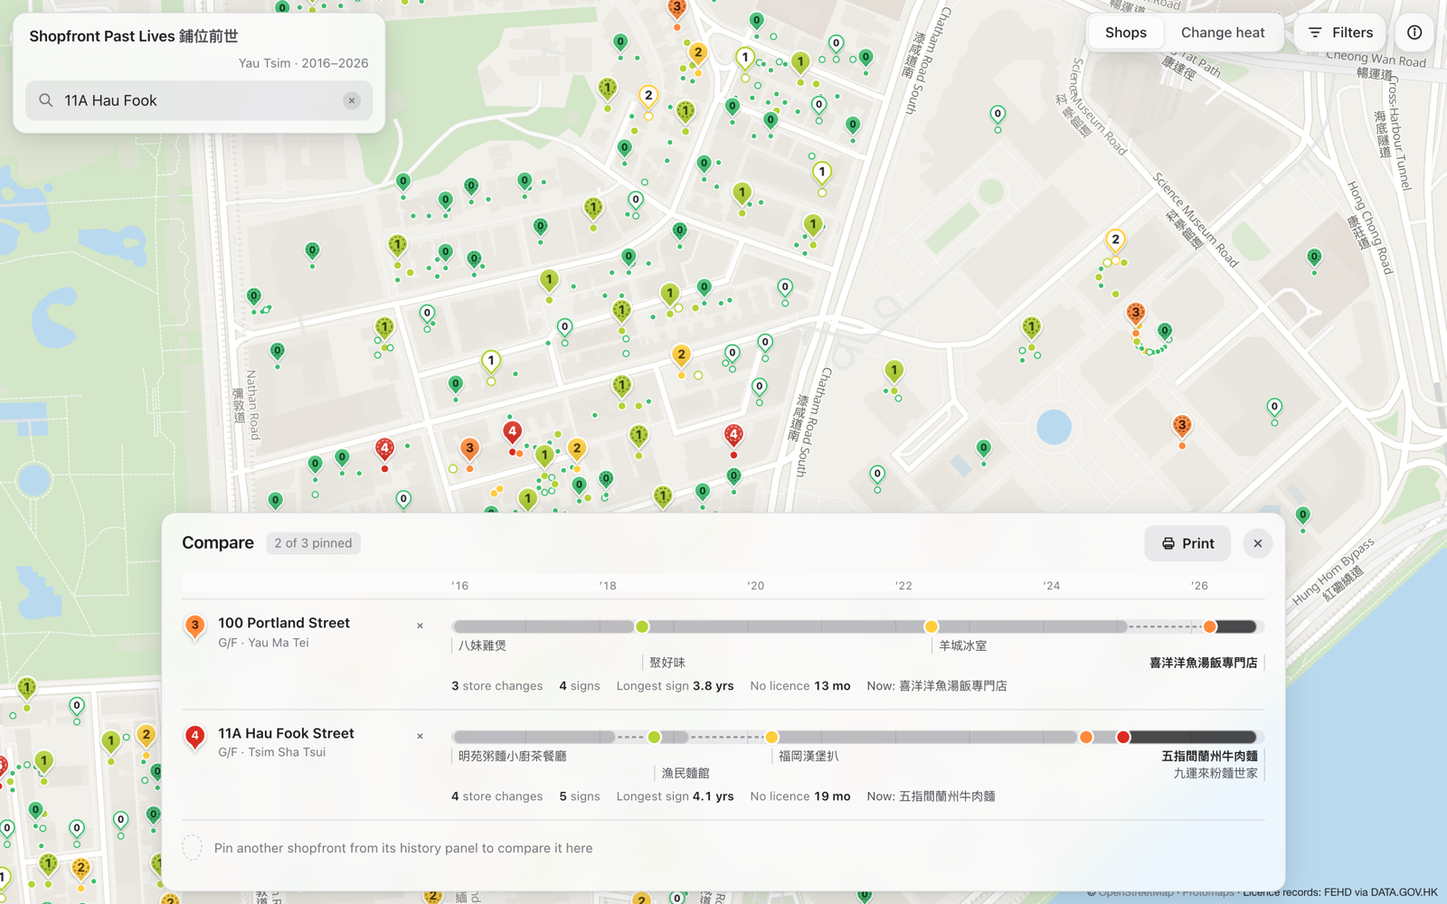
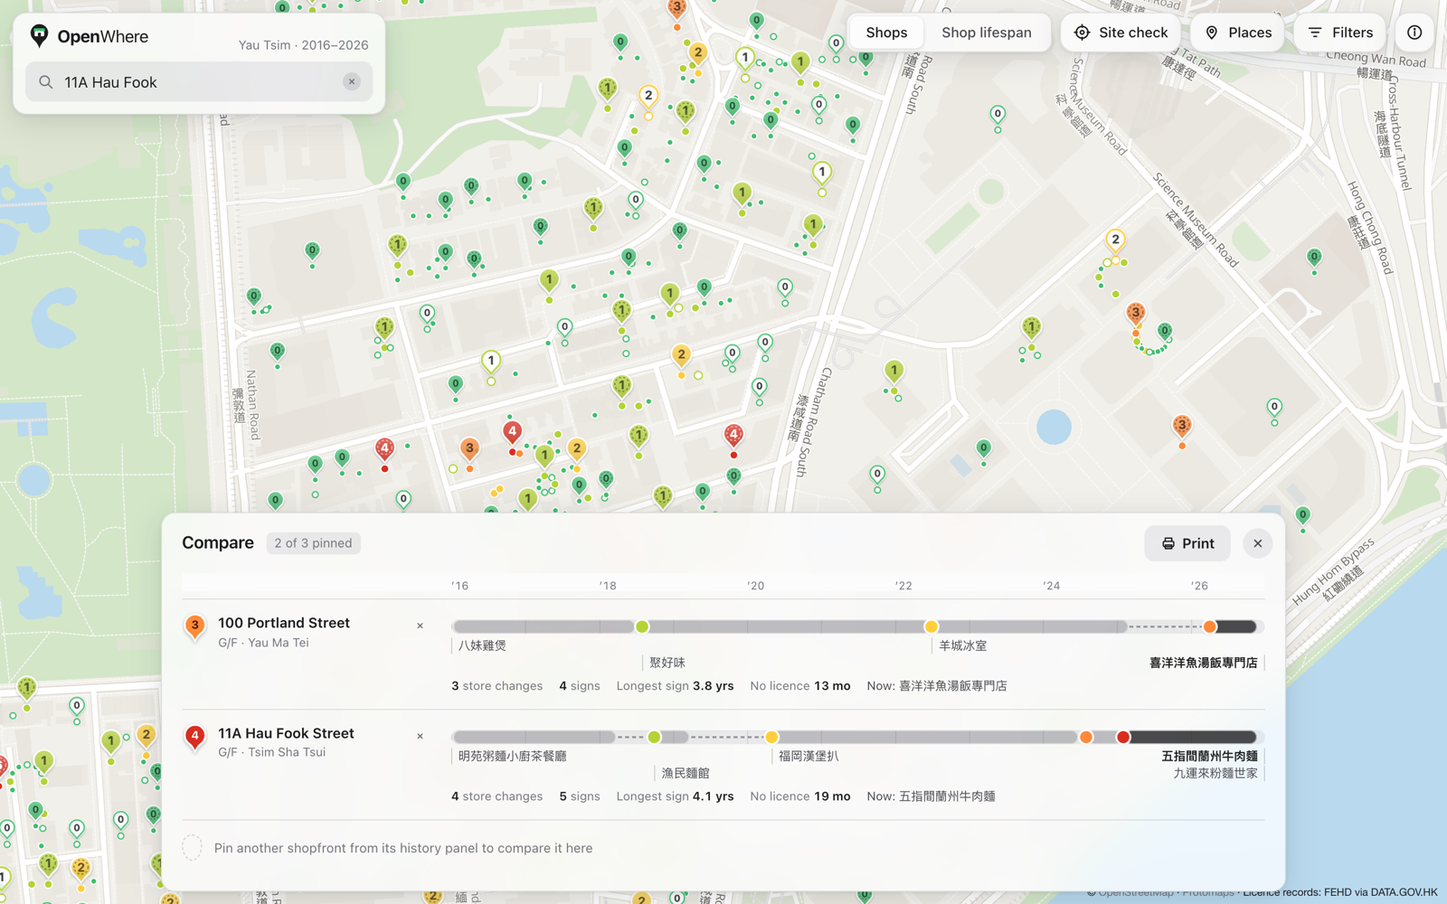
Rewrite README for OpenWhere and update product and design records
README now leads with the site question and documents site check, shop
lifespan (Kaplan-Meier, 75% of new shops last three years), cuisine
labels (87% coverage, how they were made) and places, with refreshed
screenshots. PRODUCT.md and DESIGN.md record the new features, the
logo, and that raw OpenRice data must stay out of the public repo.

diff --git a/README.md b/README.md
@@ -1,37 +1,45 @@
-# 鋪位前世 Shopfront Past Lives
+<img src="docs/brand/openwhere-logo.svg" alt="OpenWhere" width="260">
 
-A map of every shopfront in Yau Tsim (Tsim Sha Tsui, Jordan and Yau Ma Tei) that has held a restaurant licence since 2016, showing how many times each one changed hands.
+**Where should I open my restaurant?** OpenWhere puts ten years of Hong Kong's public restaurant licence records on one map of Yau Tsim (Tsim Sha Tsui, Jordan and Yau Ma Tei), so anyone choosing a site can see:
+- how often each shopfront has changed hands;
+- how long new shops last on each street;
+- which competitors of the same cuisine are already nearby;
+- what draws people to the area.
 
-Each shopfront on the map is a pin with one number: **store changes since 2016**. Green means the same sign has been listed the whole time; lime, yellow, orange and red mean one, two, three, and four or more different signs took over. Switch on **Change heat** and the streets themselves take on a continuous colour, so you can see at a glance where shops turn over often and where they stay.
+![OpenWhere: Yau Tsim with numbered pins](docs/desktop.png)
 
-![Map of Yau Tsim with numbered pins](docs/desktop.png)
-
-It is meant as a reference for anyone in the food business choosing a site, from a single noodle shop to a chain's site-selection team. It reports what the public licence lists show and nothing more. It does not predict whether a business will do well, and it never says why a shop left.
+It is a reference for anyone in the food business, from a single noodle shop to a chain's site-selection team. It reports what the records show. It doesn't predict whether a business will do well, and it never says why a shop left.
 
 ## What you can do with it
 
-- **Scan a district.** Pins show the count for every unit, and the tip marks the shopfront. Zoom out and they become coloured dots.
-- **See the trend.** *Change heat* (off by default) shades the streets by store changes per shop. It is smoothed over about 100 m and left blank wherever fewer than five shops are close by.
-- **Play ten years.** The year bar replays 2016 to 2026. Units whose count rises that year pulse once.
-- **Open a unit.** Click a pin, or search in English or Chinese (`砵蘭街100`, `Hau Fook`, a shop name). A side panel shows every sign at that address, the years each was listed, its licence type, and the licence records behind it.
-- **Filter.** Street level or all floors, licence type, outside seating, previously licensed with none listed now, and minimum number of changes.
-- **Compare and print.** Pin up to three units to see their signs side by side on one 2016–2026 axis, with each store change marked and the gaps with no licence dashed. Then print a sheet that cites its source for every row.
+- **Scan a district.** Every shopfront that has held a restaurant licence since 2016 is a pin with one number, **store changes since 2016**. The pin's tip marks the shop. Green means the same sign the whole time, rising through lime, yellow and orange to red at four or more changes.
+- **See how long shops last.** *Shop lifespan* colours the streets by the share of new shops still listed three years after they opened. Green means shops last and red means they don't. Paler colour means the estimate rests on fewer shops.
+- **Check a site.** *Site check* lets you click any spot, choose your cuisine and drag the radius (50 to 500 m). You get:
+  - same-cuisine competitors listed now, nearest first, highlighted on the map;
+  - all restaurants nearby;
+  - the local 3-year survival rate;
+  - units that held a licence before but have none now;
+  - the licence mix (general or light refreshment);
+  - the nearest MTR exit;
+  - the hotels, schools, malls, landmarks and stations in range.
+- **See what draws people.** *Places* shows MTR exits, stations, hotels, schools and universities, malls and markets, landmarks and venues, and hospitals. It can be switched off.
+- **Open a unit.** Click a pin, or search in English or Chinese (`砵蘭街100`, `Hau Fook`, a shop name). The panel shows every sign at that address with its years and licence type, the cuisine, the nearest MTR exit, and the licence records behind it.
+- **Play ten years.** The year bar replays 2016 to 2026, and units whose count rises that year pulse.
+- **Compare and print.** Pin up to three units to see their signs on one 2016–2026 axis, with each store change marked and the gaps with no licence dashed. Then print a sheet that cites its source for every row.
+
+![Site check: Japanese competitors within 200 m](docs/site.png)
+
+![Shop lifespan over Yau Tsim](docs/heat.png)
 
 ![History panel for G/F, 100 Portland Street](docs/panel.png)
-
-![Change heat over Tsim Sha Tsui](docs/heat.png)
 
 ![Two pinned shopfronts compared on one time axis](docs/compare.png)
 
 <img src="docs/phone-panel.png" alt="History panel on a phone" width="320">
 
-## How it was built
-
-This was built in one overnight session for a hackathon, and the commit history follows the build step by step. The data pipeline came first: download, spans, address resolution, link rules. Then came the choice of district, which went to Yau Tsim after the same counting was run over all 19 districts. After that: the map app, a round of fixes found by screenshotting the running app, a design review pass, and this README. `PRODUCT.md` records who the product is for and what it must never claim. `web/scripts/shoot.mjs` regenerates every screenshot here from the running app.
-
 ## Run it
 
-You need Node 18 or newer. All the data the app needs is already in the repository, and the app runs offline. It makes no network requests at all, not even for map tiles.
+You need Node 18 or newer. All the data the app needs is in the repository, and the app runs offline: it makes no network requests at all, not even for map tiles.
 
 ```bash
 cd web
@@ -41,29 +49,47 @@ npm run dev
 
 Open http://localhost:5173. For a static build, run `npm run build` and serve `web/dist` from any web server, or run `npm run preview`.
 
-## How a store change is counted
+## How the numbers are made
+
+### Store changes
 
 The source is the Food and Environmental Hygiene Department's restaurant licence list, which DATA.GOV.HK has archived daily since 2016 in English and Chinese. Each row gives a licence number, a sign, an address, a licence type and an expiry date. Nothing in it names an operator or a tenant, so the app never does either.
 
-Counting licence numbers would overstate how often shops change. A new restaurant usually gets a six-month provisional licence (numbers starting 38 or 39) and then a full licence (22 or 31), which is two numbers for one shop. So the pipeline links records into **sign histories**, using only these named rules:
+Counting licence numbers would overstate how often shops change: a new restaurant usually gets a six-month provisional licence (numbers starting 38 or 39), then a full licence (22 or 31). The pipeline links records into **sign histories** using only these named rules:
 
 | Records show | Treated as |
 | --- | --- |
-| Same licence number, sign text changes | One history, "sign changed under the same licence" |
+| Same licence number, sign text changes | One history |
 | Provisional number, then a full number within 9 months, signs match in either language | One history (inferred link) |
 | As above, but the first sign is a placeholder such as "No Record" | One history, marked unresolved |
-| As above, but the signs differ | Two histories; flagged "signs differ, may be linked" |
+| As above, but the signs differ | Two histories, flagged as possibly linked |
 | Different numbers, matching sign, gap under 12 months | One history (inferred link) |
 | Anything else | Separate histories |
 
-A **store change** is counted when a history with a different sign is listed after the previous one at that unit stopped being listed. A shop that opens beside another, without replacing it, is not a change. Addresses where two or more shops are listed at the same time for six months or more are marked as shared.
+A **store change** is a history with a different sign listed after the previous one at that unit stopped being listed. A shop that opens beside another is not a change. Hand-checked examples:
+- **G/F, 100 Portland Street:** 7 licence numbers, 4 sign histories, **3 store changes**.
+- **G/F, 11A Hau Fook Street:** 6 licence numbers, **4 store changes**.
 
-Two hand-checked examples come out as expected:
+### Shop lifespan
 
-- **G/F, 100 Portland Street:** 7 licence numbers, 4 sign histories, **3 store changes** (八妹雞煲 → 聚好味 → 羊城冰室 → 喜洋洋魚湯飯專門店).
-- **G/F, 11A Hau Fook Street:** 6 licence numbers, **4 store changes**. One provisional-then-full pair has different signs, so it stays unlinked and is flagged.
+Only shops that opened after January 2016 are used, so each one's start date is known: 907 at street level in Yau Tsim. Shops that are still listed today count as lasting *at least* as long as they have so far; they are not dropped. This is the Kaplan–Meier method, weighted by distance (σ ≈ 150 m) around every point.
 
-A licence that drops off the list for a month or two has usually just been renewed late. Of the licences that vanished from a monthly file and came back, 99.8% were back within six months, so gaps shorter than six months are never shown.
+- The colour is the share still listed three years after opening.
+- Across the district that share is **75%**, and half of new shops are still listed after about **7¼ years**.
+- Locally it runs from about 65% (red) to 90% (green).
+- Colour fades toward white as the number of nearby shops falls from 15 to 3. Below 3 shops nothing is drawn.
+
+### Cuisine
+
+The licence lists carry no cuisine, so it is guessed from each current shop's sign, in two passes:
+1. Keyword rules on the Chinese and English names labelled 857 shops.
+2. I read the remaining 730 names by hand (`data/cuisine_manual.json`).
+
+That gives 1,385 of the 1,587 shops listed now (87%) a cuisine. The other 202 stay "unclear from the name" rather than being guessed. A spot check of 45 rule labels found 41 right; the patterns behind the misses were then added. The app always says the cuisine was guessed from the name.
+
+### Places and MTR exits
+
+Places and MTR exits come from OpenStreetMap via the Overpass API. Tutoring centres tagged as schools are dropped. Distances are straight-line, not walking routes: the median shop is 149 m from its nearest MTR exit.
 
 ## Numbers for Yau Tsim
 
@@ -71,12 +97,17 @@ A licence that drops off the list for a month or two has usually just been renew
 | --- | --- |
 | Monthly files read, Jan 2016 to Nov 2026 (EN + TC) | 262, none set aside as damaged |
 | Licence numbers seen in the district | 5,119 |
-| Shopfronts on the map, all floors | 2,200 |
+| Shopfronts on the map, all floors | 2,200 (1,587 listed now) |
 | Street-level shopfronts placed on the map | 1,121 of 1,195 (94%) |
 | Street-level: no change / 1 / 2 / 3 / 4 or more | 832 / 212 / 56 / 15 / 6 |
-| Street-level units with a licence before but none listed now | 268 |
+| New street-level shops since 2016 still listed after 3 years | 75% |
+| Current shops with a cuisine label | 1,385 of 1,587 (87%) |
+| Places on the map | 160 MTR exits, 138 hotels, 161 schools, 95 malls and markets, 69 landmarks, 60 stations, 7 hospitals |
 
-Yau Tsim was picked from the 19 FEHD districts by running the same counting over all of them. It has the highest rate of store changes per street-level shop (0.34, against 0.09 to 0.28 elsewhere), the largest share of shops with at least one change (25%), and the most units with three or more changes (21, against 13 at most elsewhere). It also holds both hand-checked examples above.
+Yau Tsim was picked from the 19 FEHD districts by running the same counting over all of them. It has:
+- the highest rate of store changes per street-level shop: 0.34, against 0.09 to 0.28 elsewhere;
+- the largest share of shops with at least one change: 25%;
+- the most units with three or more changes: 21, against at most 13 elsewhere.
 
 ## Rebuild the data
 
@@ -93,44 +124,61 @@ python units.py parse
 python units.py geocode --dist 61      # Address Lookup Service, cached
 python units.py build                  # addresses -> units
 python histories.py                    # link rules, store changes
+python cuisine.py                      # cuisine guessed from current signs
 python export.py                       # web/public/data
-python heat.py                         # heat images per year
+python facilities.py                   # OpenStreetMap places, MTR exit distance
+python heat.py                         # shop lifespan surface
 ```
 
 | Step | File | What it does |
 | --- | --- | --- |
-| Download | `pipeline/gate0.py` | Lists every archived version (the archive uses `http://` until May 2021 and `https://` after) and keeps files that pass validation. A file is quarantined if it is truncated, misses a field, repeats a licence number, or loses more than 8% of its rows. |
-| Spans | `pipeline/ingest.py` | One row per licence number per unbroken run with the same sign, address, type and endorsements. Checks that the EN and TC files list the same licence numbers each day, and measures how long missing licences take to return. |
-| Units | `pipeline/units.py` | Parses floor, shop numbers and street address by rule. Places buildings with the government Address Lookup Service, accepting a match only when its street name and number agree with the licence address. |
-| Histories | `pipeline/histories.py` | Applies the link rules above and counts store changes. |
-| Export | `pipeline/export.py`, `pipeline/heat.py` | Writes the GeoJSON, one history file per unit, a search index, and one heat image per year. |
+| Download | `gate0.py` | Lists every archived version and keeps files that pass validation. The archive uses `http://` until May 2021 and `https://` after. A file is quarantined if it is truncated, misses a field, repeats a licence number, or loses more than 8% of its rows. |
+| Spans | `ingest.py` | One row per licence number per unbroken run with the same sign, address, type and endorsements. Checks that the EN and TC files list the same licence numbers each day. |
+| Units | `units.py` | Parses floor, shop numbers and street address by rule, then places each building with the government Address Lookup Service. |
+| Histories | `histories.py` | Applies the link rules and counts store changes. |
+| Cuisine | `cuisine.py` | Keyword rules plus hand labels for shops listed now. |
+| Export | `export.py` | GeoJSON, one history file per unit, a search index. |
+| Places | `facilities.py` | OpenStreetMap places and each shop's distance to the nearest MTR exit. |
+| Lifespan | `heat.py` | Distance-weighted Kaplan–Meier surface, its image and a readout grid. |
+
+## How it was built
+
+This was built in one overnight session for a hackathon, and the commit history follows the build step by step:
+1. The data pipeline: download, spans, address resolution, link rules.
+2. The choice of district.
+3. The map app.
+4. Rounds of fixes found by screenshotting the running app.
+5. A design review, a choice between four rendered marker concepts, and a compare redesign.
+6. Site check, shop lifespan, cuisine and places.
+
+`PRODUCT.md` records who the product is for and what it must never claim. `DESIGN.md` records the design system. `web/scripts/shoot.mjs` regenerates every screenshot here from the running app.
 
 ## Repository layout
 
 ```
-pipeline/         download, ingest, address resolution, link rules, export
-data/             snapshots.csv (manifest of files read); raw files and caches are not committed
+pipeline/         download, ingest, address resolution, link rules, cuisine, places, export
+data/             snapshots.csv (files read) and cuisine_manual.json (hand labels); raw files are not committed
 web/              Vite + React + TypeScript + MapLibre GL app
   public/data/    exported Yau Tsim data
   public/tiles/   Hong Kong basemap (Protomaps PMTiles extract)
-  src/map/        map layers, pins, basemap style
-  src/components/ search, filters, panel, compare, legend, year bar
-docs/             screenshots
-PRODUCT.md        product brief
+  src/map/        map layers, pins, places, basemap style
+  src/components/ search, site check, filters, panel, compare, legend, year bar
+docs/             screenshots and brand files
 ```
 
 ## Limits
 
 - Monthly sampling misses a shop that opened and closed between two monthly files.
 - 74 street-level addresses (6%) could not be placed reliably and are left off the map.
-- Units in one building are spread on a small ring around the building point. Where two licence addresses overlap and can't be separated, the unit shows a dashed outline and its count covers the whole address.
-- Link rules can be wrong. Every link is labelled with the rule that made it, and the panel lists the licence records it rests on.
-- Change heat compares areas inside this district only. Its colour scale comes from Yau Tsim's own range.
+- Link rules can be wrong. Every link is labelled with the rule that made it, and the panel lists the records behind it.
+- Cuisine is a guess from a name, and one in ten shops can't be guessed at all.
+- Shop lifespan compares areas within this district only. Its colours come from Yau Tsim's own range.
+- No rent data: there is no reliable public source for the current rent of individual shops.
 
 ## Sources and credits
 
 - Restaurant licence lists: Food and Environmental Hygiene Department, via the [DATA.GOV.HK historical archive](https://data.gov.hk/en/help/api-spec).
 - Building locations: [Address Lookup Service](https://www.als.gov.hk), Office of the Government Chief Information Officer.
-- Basemap: © [OpenStreetMap](https://www.openstreetmap.org/copyright) contributors, rendered with [Protomaps](https://protomaps.com) and [MapLibre GL JS](https://maplibre.org).
+- Places, MTR exits and basemap: © [OpenStreetMap](https://www.openstreetmap.org/copyright) contributors (ODbL), rendered with [Protomaps](https://protomaps.com) and [MapLibre GL JS](https://maplibre.org).
 
 Reconstructed from FEHD licence lists. Not a record of ownership, tenancy or business performance.

diff --git a/DESIGN.md b/DESIGN.md
@@ -1,5 +1,5 @@
 ---
-name: Shopfront Past Lives
+name: OpenWhere
 description: Ten years of Hong Kong restaurant licence records on one calm map, one readable change count per shopfront.
 colors:
   change-0: "#3FBF6F"
@@ -310,8 +310,17 @@ Drawn on canvas in the system font at 2× or higher and registered as map images
 - Hover shows a soft ink halo at the tip; selection lifts the pin to 1.3× above all others.
 - When a year step raises a unit's count, one ring pulses out from it (1.1s, ease-out cubic).
 
-### Heat Wash (signature)
-A per-year RGBA image generated by the data pipeline from the licence records, coloured with the change ramp, transparent where few shops stand and more opaque as the change rate rises. It sits under the basemap labels so street names stay readable. Switching to Change heat cross-fades the wash in over 450ms while badges fade and dots shrink to small, half-opaque points; the legend becomes a 230px gradient bar with "Fewer changes" and "More changes" ends.
+### Shop Lifespan Wash (signature)
+One RGBA image generated by the data pipeline: the distance-weighted share of new shops still listed three years after opening, red (short-lived) through orange, yellow and lime to green (lasting), the pin colours read as stability. Colour fades toward white as the estimate rests on fewer shops (15 down to 3), so paleness means "less data", and nothing is drawn more than about 45 m from a shop. It sits under the basemap labels. Switching to Shop lifespan cross-fades it in over 450ms while pins fade to small dots; the legend shows the gradient with its percentage ends and "Paler colour = fewer shops to go on".
+
+### Places
+OpenStreetMap places that draw people (MTR exits, stations, hotels, schools, malls and markets, landmarks, hospitals) as 22px white tiles (6px radius, soft shadow) with ink line icons in the interface icon grammar, so they never compete with the coloured pins. Off by default behind the Places button; names appear under them from zoom 16.6; MTR exits only from zoom 16.
+
+### Site Check
+A 372px glass card under the search card. Cuisine select and a 50–500 m radius slider, then one large tabular count, the nearest six competitors as pin-mark rows with distances, a hairline-ruled list of area facts, and place counts with their icons. On the map: a dashed ink circle with a faint fill and an ink centre dot; same-cuisine competitors always show their pin on top, other shops inside the circle fade to 45% and shops outside to 15%.
+
+### Logo
+A map pin (where) whose head holds a shop awning (open): ink pin, white shopfront, green awning in the step-0 green, wordmark "Open" bold and "Where" regular in the system face. Files in docs/brand.
 
 ### Cards / Containers
 - **Corner Style:** 14px.
@@ -328,7 +337,7 @@ A per-year RGBA image generated by the data pipeline from the licence records, c
 The 400px glass panel slides in from the right over 340ms as the map flies to the unit (900ms) and the badge lifts, as one motion. Head: address headline, Chinese address in Slate Ink, the large chip with "N store changes since 2016", fact tags and actions. Body: the sign timeline (74px year column, sign names Chinese first then English), store-change markers as small ramp-coloured dots on a hairline, and a collapsible records table in 12px text.
 
 ### Compare Sheet
-A bottom sheet rising over 300ms, holding up to three pinned units on one 2016–2026 axis: a 220px name column (120px on phone) and a track with 0.5px year rules and rounded tinted bars per sign.
+A bottom sheet rising over 320ms, up to 1120px wide, holding up to three pinned units as lanes on one 2016–2026 axis: a 248px identity column (pin mark, street line, floor and area), a 14px track with separated rounded bands per sign (the current one in ink), ramp-coloured dots at each store change, dashed gaps with no licence, sign names on two staggered lines under the track, and one line of facts. Empty slots show a dashed pin with an invitation to pin another.
 
 ## Do's and Don'ts
 

diff --git a/PRODUCT.md b/PRODUCT.md
@@ -18,9 +18,11 @@ Secondary audience: hackathon judges watching a three-minute demo and reading th
 
 ## Product Purpose
 
-鋪位前世 Shopfront Past Lives puts ten years of public restaurant licence records on one map of Hong Kong. Every licensed unit shows how many times its shop sign changed since 2016, and a switchable layer shows where changes are frequent across a whole district. Clicking a unit shows its sign history and the records behind it; units can be pinned and compared on one time axis.
+OpenWhere (formerly Shopfront Past Lives, 鋪位前世) puts ten years of public restaurant licence records on one map of Hong Kong. Every licensed unit shows how many times its shop sign changed since 2016, and a switchable layer shows where changes are frequent across a whole district. Clicking a unit shows its sign history and the records behind it; units can be pinned and compared on one time axis.
 
-Success: in the first seconds a user can see which streets change often and which are stable, and within a minute they can shortlist and compare specific units with the evidence in view.
+It also answers the site question directly: Site check shows same-cuisine competitors listed now within a chosen radius, how long new shops last around the spot, units licensed before with none listed now, the nearest MTR exit and the places nearby that draw people. Shop lifespan colours the streets by the share of new shops still listed three years after opening.
+
+Success: in the first seconds a user can see which streets change often and which are stable, and within a minute they can check a spot for their cuisine and shortlist units with the evidence in view.
 
 ## Positioning
 
@@ -35,8 +37,9 @@ Used on a laptop while scanning a district, and projected on stage during a thre
 - Shows only what the licence lists record. Never says closed, failed, left, vacant, operator or tenant. Operator identity is unknown.
 - Shows one number per unit: store changes since 2016. No raw licence-number counts and no raw-versus-reconstructed comparison in the interface.
 - Does not generate advice, questions to ask, scores, grades or predictions.
-- Change heat layer is off by default and switched on by the user.
-- Price evidence is out of scope for this build.
+- The shop lifespan layer and the places layer are off by default and switched on by the user.
+- Cuisine is guessed from shop names and always labelled as such; rent is not shown because no reliable public per-shop source exists.
+- Price ranges may come from a teammate's OpenRice data, pending; OpenRice terms restrict copying, so raw scraped data must not be committed to the public repository.
 - Interface language: English. Shop signs and addresses are shown in Chinese and English side by side.
 
 ## Evidence on Hand
@@ -58,4 +61,5 @@ Change counts are always available as digits, not colour alone. Colour ramps mus
 
 ## Brand Commitments
 
+- Name: OpenWhere. Logo: a map pin whose head holds a shop awning (docs/brand), ink with a green awning.
 - Visual direction: the category standard for map apps, played straight. Craft bar: Apple Maps (soft light basemap, translucent floating panels, system type, very smooth transitions). Chosen by the user over rolled directions on 14 Nov 2026.
